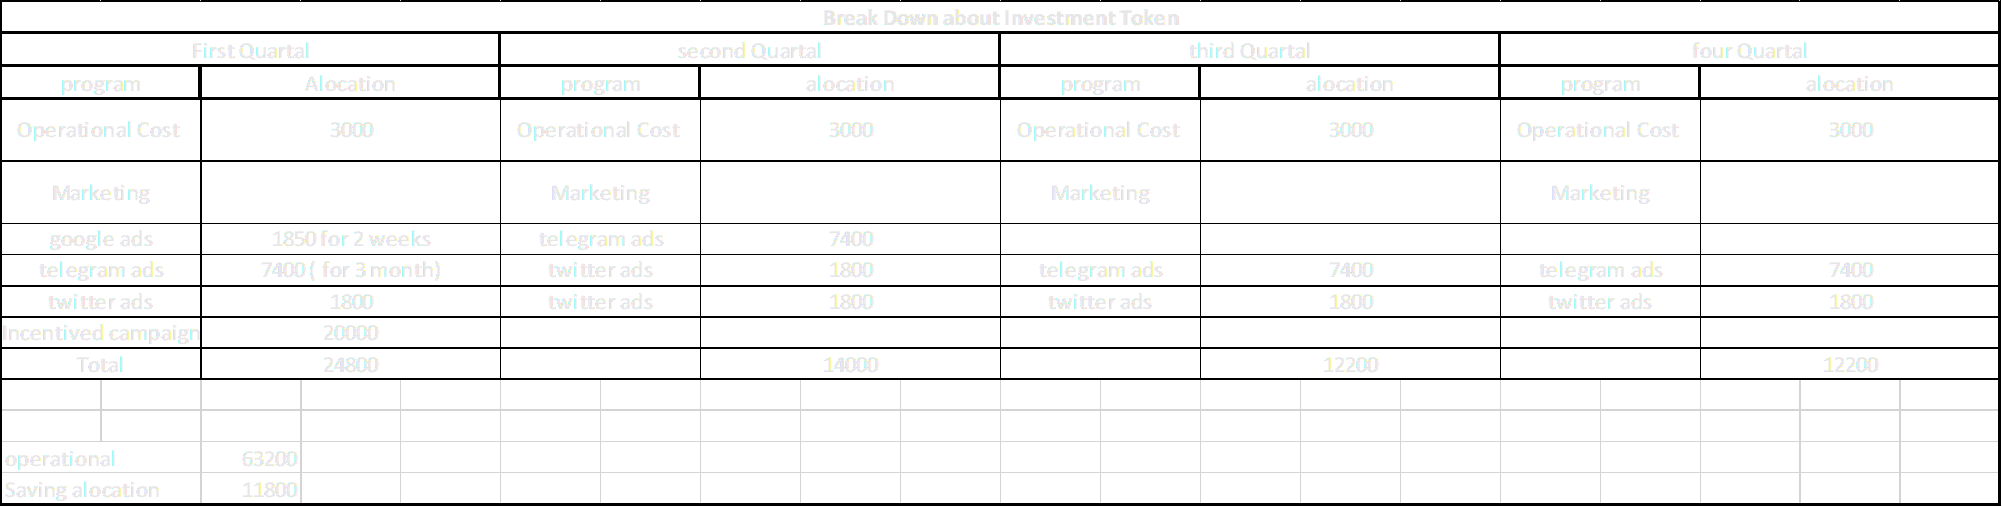
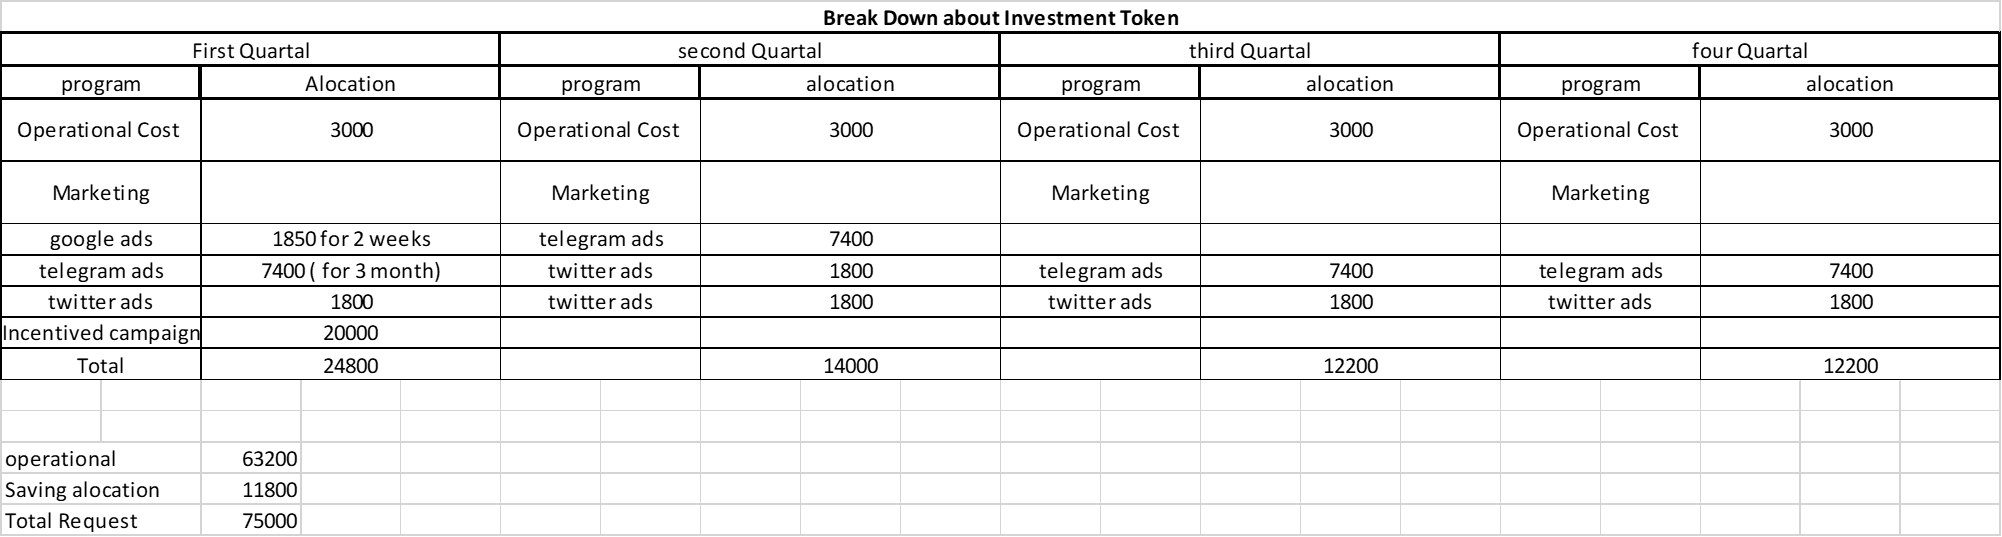
GITBOOK-7: 's Jun 30 changes

diff --git a/add gitbook wp/overview/dapps/crowdfunding-dapps/crowdfunding-dapps-empowering-the-future-of-fundraising.md b/add gitbook wp/overview/dapps/crowdfunding-dapps/crowdfunding-dapps-empowering-the-future-of-fundraising.md
@@ -61,6 +61,6 @@ _**commision will be send to wallet deployer to filling pool on planq Network af
 
 _**Break down of Token Investment**_
 
-<figure><img src="../../../.gitbook/assets/image.png" alt=""><figcaption></figcaption></figure>
+<figure><img src="../../../.gitbook/assets/image (1).png" alt=""><figcaption></figcaption></figure>
 
 we aims to disrupt the traditional crowdfunding industry by offering a decentralized and innovative solution that empowers project creators and backers. By leveraging blockchain technology, our crowdfunding DApp will provide transparency, security, and efficiency, revolutionizing the way fundraising campaigns are conducted. With a strong team, strategic marketing, and a user-centric approach, we are poised to become a leading player in

diff --git a/add gitbook wp/connect-with-us/contact-us.md b/add gitbook wp/connect-with-us/contact-us.md
@@ -1,5 +1,7 @@
 # 📪 Contact Us
 
-##
+## Image
+
+<figure><img src="../.gitbook/assets/8030fa5e-e643-462a-ae7d-27687598bc7e.jpg" alt=""><figcaption></figcaption></figure>
 
 ##
